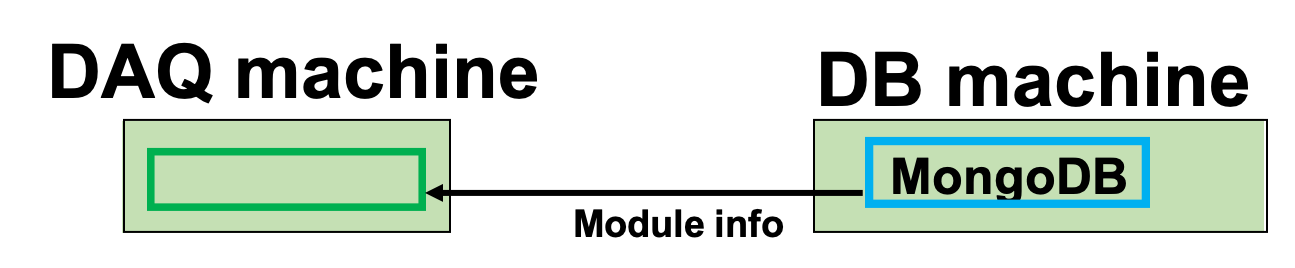
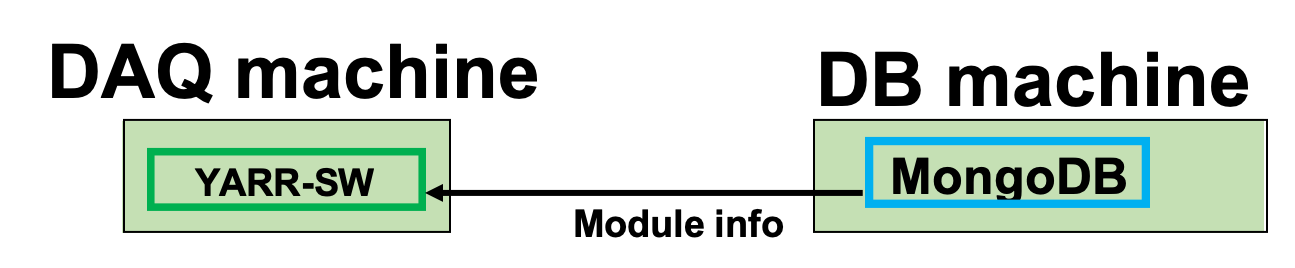
added DCS picture

Changed region(s): [[0.1544, 0.6269, 0.3089, 0.7463]]

diff --git a/docs/database_demonstration_run_dcs.md b/docs/database_demonstration_run_dcs.md
@@ -1,7 +1,8 @@
 # Hook-up the module to the devices and run the DCS controller
 
 ## Hook-up module to devices
-This step has already done.Plrease go to next.
+![DCS system](images/demo_hook_up.png)
+![DCS system](images/demo_DCS_structure.png)
 
 ## (a) Run a script to get temperature(for monkeyisland)
 To get environmental temperature and store the data into influxDB, do the following command.<br>
